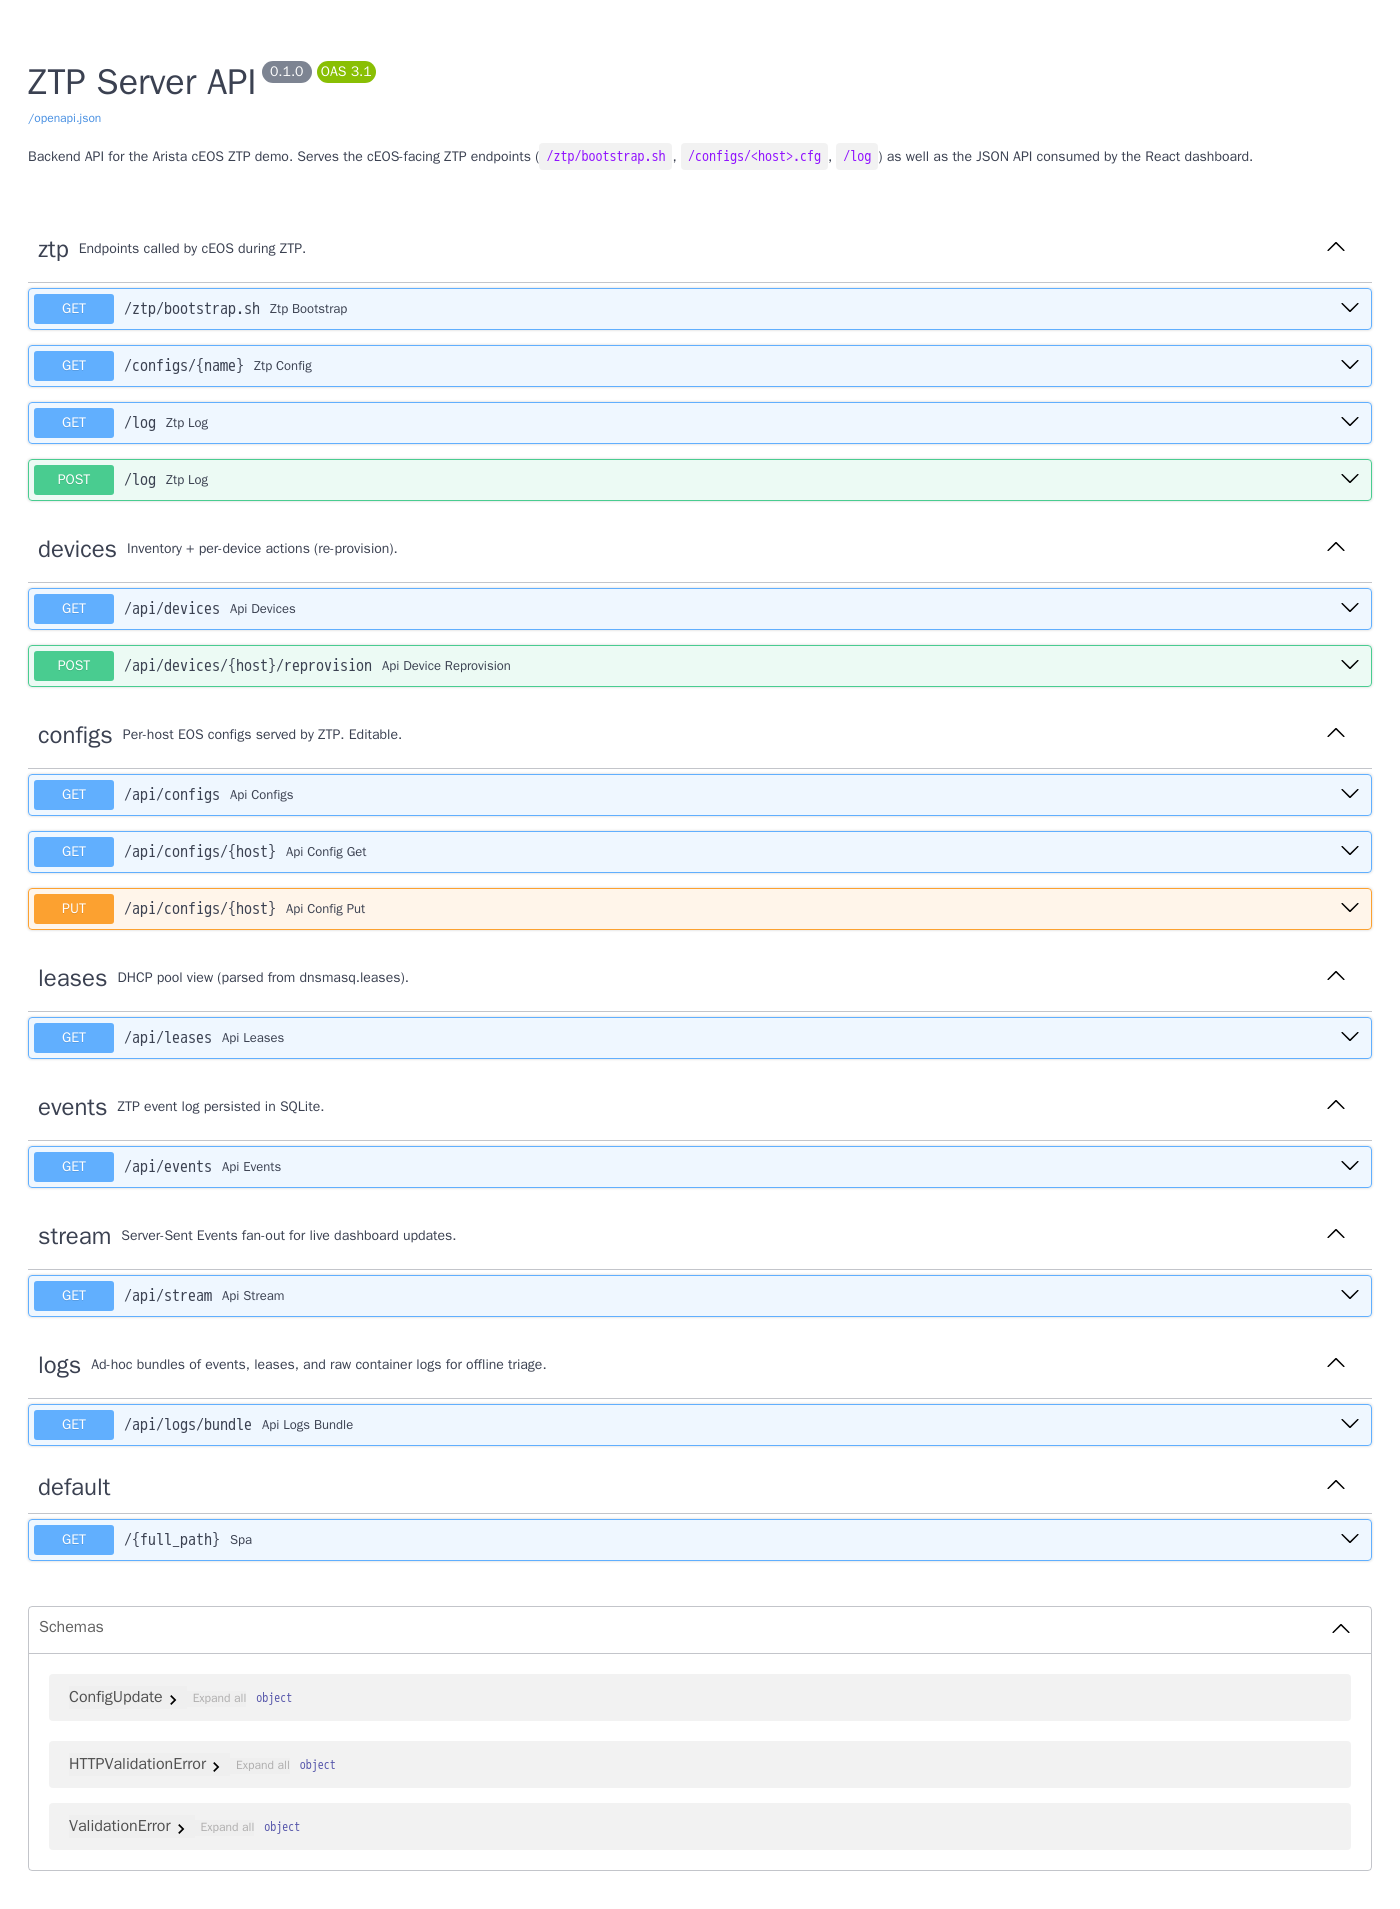
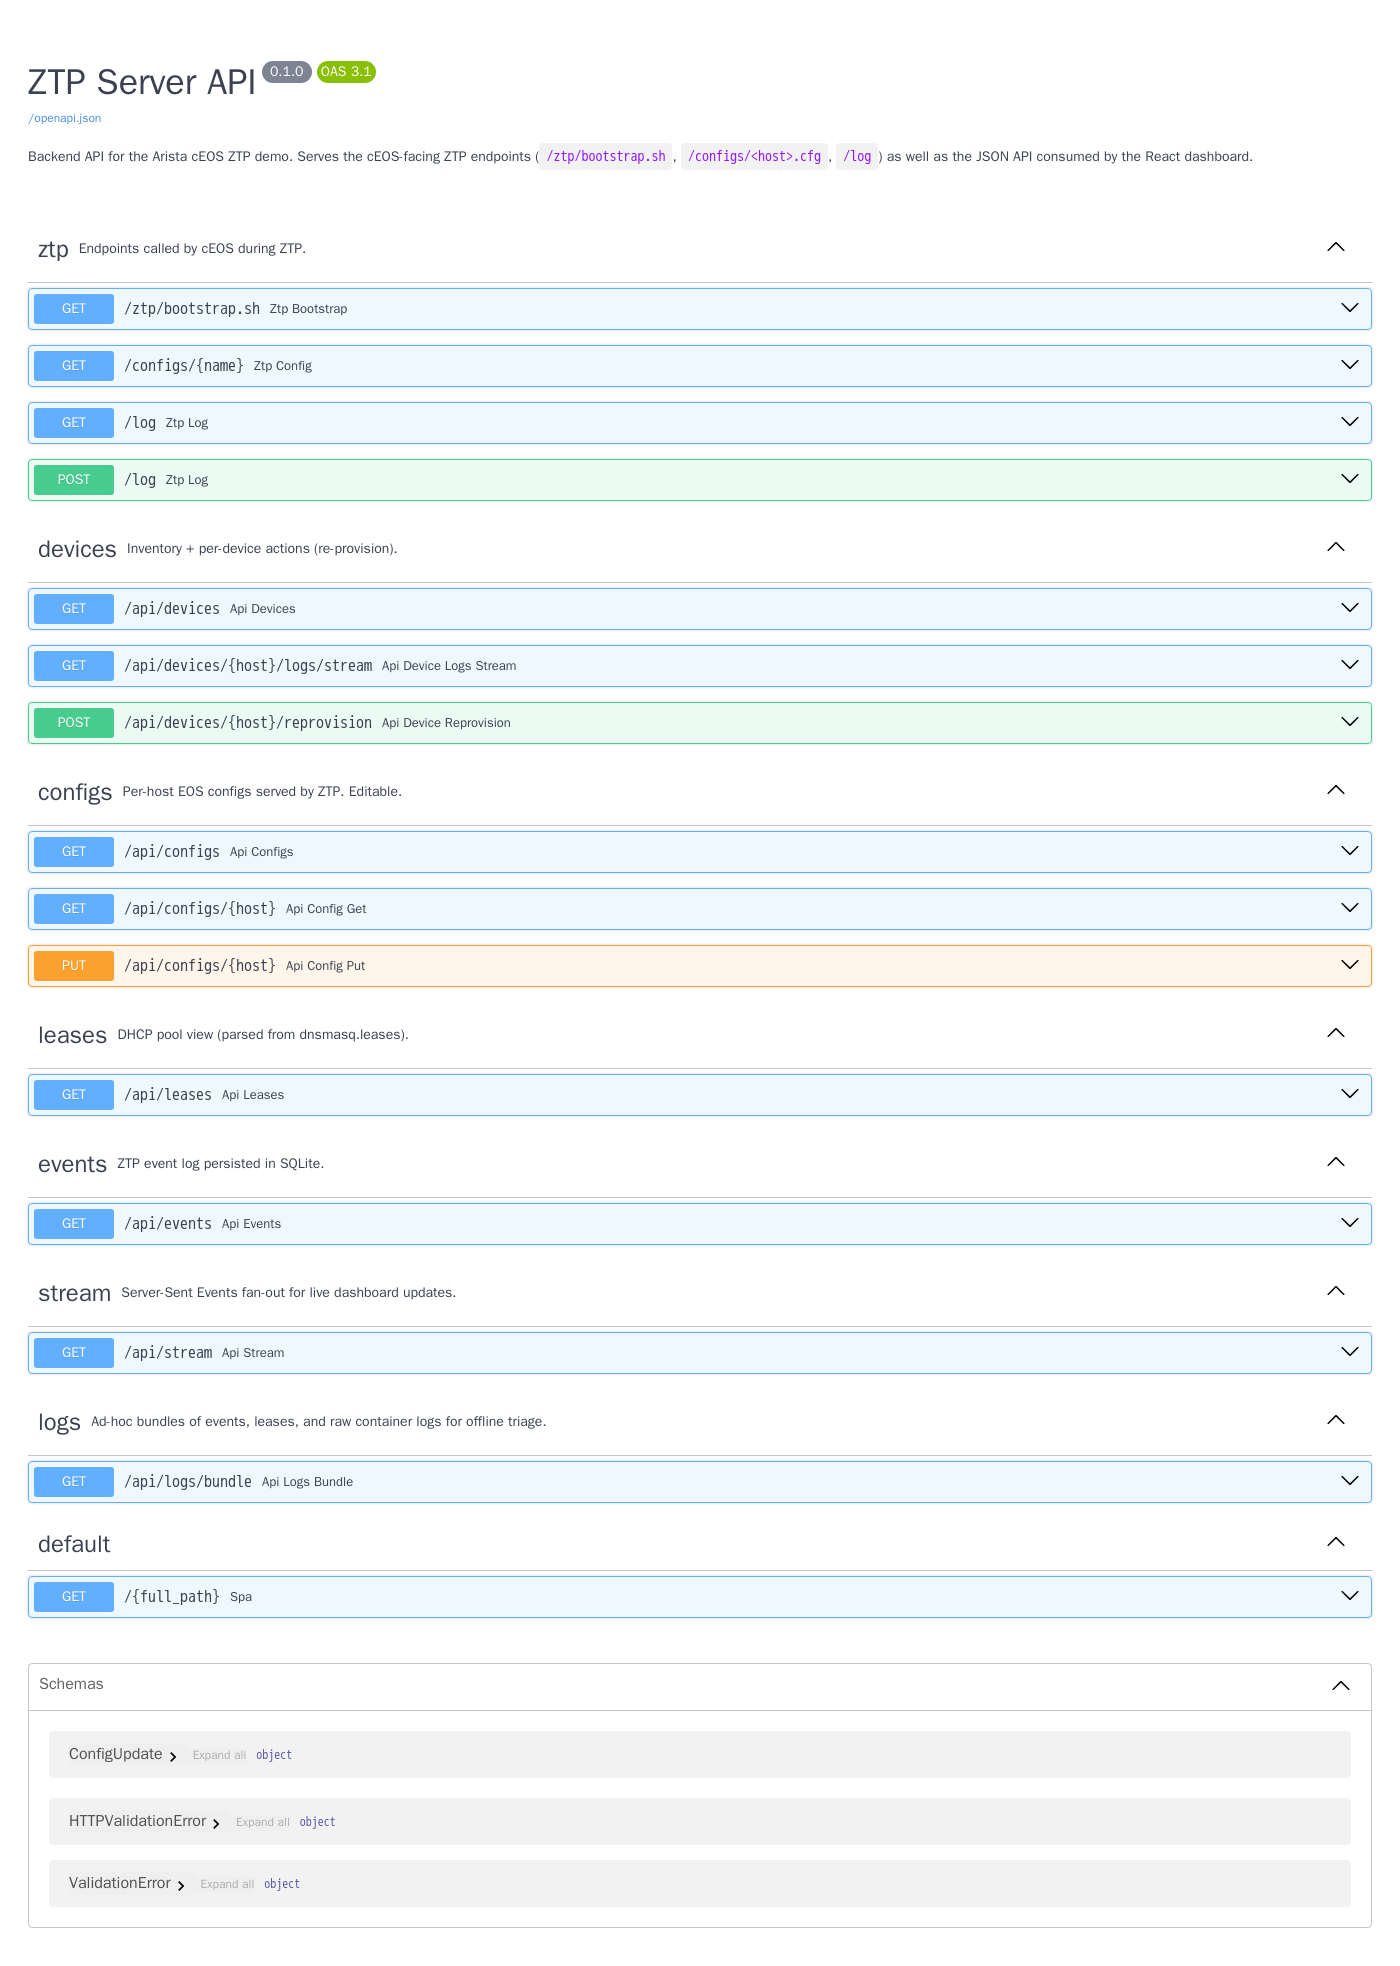
Add Live ZTP Viewer: stream docker logs per cEOS to a bottom drawer
New SSE endpoint GET /api/devices/{host}/logs/stream tails
`docker logs -f` for the cEOS container backing the named node. A
background thread reads the docker SDK log generator into an
asyncio.Queue, buffering until newline (docker yields tiny chunks for
terminal output) and stripping ANSI color escapes server-side so the
browser renders clean text.

The Devices grid gets a per-row "Live ZTP Viewer" button. Clicking it
opens a fixed-position drawer at the bottom of the page that connects
to the stream and tails the container's stdout/stderr — systemd boot
messages, ZTP DHCP exchanges, the bootstrap script running, the
post-ZTP reboot, etc. The drawer has pause-autoscroll, clear, and
close controls.

- ztp-server/app/main.py: SSE endpoint + ANSI stripper
- ztp-server/app/ui/src/components/LogDrawer.tsx: terminal drawer
- ztp-server/app/ui/src/pages/Devices.tsx: per-row button + spacer
- README.md + new docs/screenshots/live-ztp-viewer.png

diff --git a/ztp-server/app/ui/src/components/LogDrawer.tsx b/ztp-server/app/ui/src/components/LogDrawer.tsx
@@ -1,0 +1,81 @@
+import { useEffect, useRef, useState } from "react";
+
+const MAX_LINES = 5000;
+
+export default function LogDrawer({ host, onClose }: { host: string; onClose: () => void }) {
+  const [lines, setLines] = useState<string[]>([]);
+  const [paused, setPaused] = useState(false);
+  const [connected, setConnected] = useState(false);
+  const bodyRef = useRef<HTMLDivElement>(null);
+
+  useEffect(() => {
+    setLines([]);
+    setConnected(false);
+    const es = new EventSource(`/api/devices/${host}/logs/stream`);
+    es.onopen = () => setConnected(true);
+    es.onerror = () => setConnected(false);
+    es.onmessage = (ev) => {
+      setLines((l) => {
+        const next = l.length >= MAX_LINES ? l.slice(-MAX_LINES + 1) : l.slice();
+        next.push(ev.data);
+        return next;
+      });
+    };
+    return () => { es.close(); };
+  }, [host]);
+
+  useEffect(() => {
+    if (!paused && bodyRef.current) {
+      bodyRef.current.scrollTop = bodyRef.current.scrollHeight;
+    }
+  }, [lines, paused]);
+
+  return (
+    <div className="fixed inset-x-0 bottom-0 h-[45vh] bg-slate-950 border-t border-slate-800 z-50 flex flex-col shadow-2xl">
+      <div className="flex items-center justify-between px-3 py-2 border-b border-slate-800 bg-slate-900">
+        <div className="flex items-center gap-3">
+          <span className="text-sm font-semibold mono">Live ZTP Viewer · {host}</span>
+          <span className={`text-[10px] mono ${connected ? "text-emerald-400" : "text-slate-500"}`}>
+            {connected ? "● streaming" : "○ disconnected"}
+          </span>
+          <span className="text-xs text-slate-500">{lines.length} lines</span>
+          {paused && <span className="text-xs text-amber-400">autoscroll paused</span>}
+        </div>
+        <div className="flex items-center gap-2">
+          <button
+            onClick={() => setPaused((p) => !p)}
+            className="px-2 py-1 rounded text-xs bg-slate-800 hover:bg-slate-700"
+            title="Toggle autoscroll"
+          >
+            {paused ? "▶ resume" : "❚❚ pause"}
+          </button>
+          <button
+            onClick={() => setLines([])}
+            className="px-2 py-1 rounded text-xs bg-slate-800 hover:bg-slate-700"
+          >
+            clear
+          </button>
+          <button
+            onClick={onClose}
+            className="px-2 py-1 rounded text-xs bg-rose-600 hover:bg-rose-500"
+          >
+            ✕ close
+          </button>
+        </div>
+      </div>
+      <div
+        ref={bodyRef}
+        onWheel={(e) => {
+          if (e.deltaY < 0) setPaused(true);
+        }}
+        className="flex-1 overflow-y-auto bg-black text-emerald-200 mono text-[11px] leading-snug p-2 whitespace-pre-wrap"
+      >
+        {lines.length === 0 ? (
+          <span className="text-slate-500">waiting for output…</span>
+        ) : (
+          lines.join("\n")
+        )}
+      </div>
+    </div>
+  );
+}

diff --git a/ztp-server/app/ui/src/pages/Devices.tsx b/ztp-server/app/ui/src/pages/Devices.tsx
@@ -3,10 +3,12 @@ import { Link } from "react-router-dom";
 import { api, Device } from "../api";
 import { useSSE } from "../hooks/useSSE";
 import StatusPill from "../components/StatusPill";
+import LogDrawer from "../components/LogDrawer";
 
 export default function Devices() {
   const [devices, setDevices] = useState<Device[]>([]);
   const [error, setError] = useState<string | null>(null);
+  const [viewerHost, setViewerHost] = useState<string | null>(null);
 
   const refresh = () => api.devices().then(setDevices).catch((e) => setError(String(e)));
 
@@ -33,6 +35,7 @@ export default function Devices() {
               <th className="px-3 py-2">Mgmt IP (Docker)</th>
               <th className="px-3 py-2">Last seen</th>
               <th className="px-3 py-2">Events</th>
+              <th className="px-3 py-2 text-right">Actions</th>
             </tr>
           </thead>
           <tbody>
@@ -47,14 +50,32 @@ export default function Devices() {
                 <td className="px-3 py-2 mono">{d.ip ?? "-"}</td>
                 <td className="px-3 py-2 mono text-xs text-slate-400">{d.last_seen ?? "-"}</td>
                 <td className="px-3 py-2">{d.event_count ?? 0}</td>
+                <td className="px-3 py-2 text-right">
+                  <button
+                    onClick={() => setViewerHost(d.name)}
+                    disabled={!d.container}
+                    className="px-2 py-1 rounded text-xs bg-emerald-600 hover:bg-emerald-500 disabled:opacity-40"
+                    title="Stream live docker logs for this device"
+                  >
+                    Live ZTP Viewer
+                  </button>
+                </td>
               </tr>
             ))}
             {devices.length === 0 && (
-              <tr><td colSpan={7} className="px-3 py-6 text-center text-slate-500">No devices yet.</td></tr>
+              <tr><td colSpan={8} className="px-3 py-6 text-center text-slate-500">No devices yet.</td></tr>
             )}
           </tbody>
         </table>
       </div>
+
+      {viewerHost && (
+        <>
+          {/* spacer so the table doesn't sit under the drawer */}
+          <div className="h-[45vh]" aria-hidden />
+          <LogDrawer host={viewerHost} onClose={() => setViewerHost(null)} />
+        </>
+      )}
     </section>
   );
 }

diff --git a/docs/screenshots/capture.js b/docs/screenshots/capture.js
@@ -5,6 +5,8 @@ const OUT  = '/out';
 
 const SHOTS = [
   { url: '/',                  file: 'devices.png',       wait: 1500 },
+  // capture the drawer as well; handled specially below
+  { url: '/',                  file: 'live-ztp-viewer.png', wait: 4000, openViewer: 'spine1' },
   { url: '/devices/spine1',    file: 'device-detail.png', wait: 2000 },
   { url: '/configs',           file: 'configs.png',       wait: 1500 },
   { url: '/edit/spine1',       file: 'config-editor.png', wait: 2000 },
@@ -23,10 +25,29 @@ const SHOTS = [
 
   for (const s of SHOTS) {
     const url = BASE + s.url;
-    console.log(`-> ${url}`);
+    console.log(`-> ${url}${s.openViewer ? ` (open viewer for ${s.openViewer})` : ''}`);
     await page.goto(url, { waitUntil: 'domcontentloaded', timeout: 20000 });
+    await new Promise(r => setTimeout(r, 700));
+    if (s.openViewer) {
+      // click the Live ZTP Viewer button on the row whose first cell text matches
+      await page.evaluate((host) => {
+        const rows = Array.from(document.querySelectorAll('tbody tr'));
+        for (const row of rows) {
+          const first = row.querySelector('td');
+          if (first && first.innerText.trim() === host) {
+            const btn = row.querySelector('button');
+            if (btn) (btn).click();
+            return true;
+          }
+        }
+        return false;
+      }, s.openViewer);
+    }
     await new Promise(r => setTimeout(r, s.wait));
-    await page.screenshot({ path: `${OUT}/${s.file}`, fullPage: true });
+    await page.screenshot({
+      path: `${OUT}/${s.file}`,
+      fullPage: !s.openViewer,
+    });
   }
   await browser.close();
 })().catch(e => { console.error(e); process.exit(1); });

diff --git a/ztp-server/app/main.py b/ztp-server/app/main.py
@@ -4,6 +4,7 @@ import json
 import os
 import re
 import tarfile
+import threading
 from datetime import datetime, timezone
 from pathlib import Path
 from contextlib import asynccontextmanager
@@ -26,6 +27,9 @@ import leases
 CONTENT_ROOT = Path(os.environ.get("ZTP_CONTENT_ROOT", "/ztp-content"))
 STATIC_ROOT = Path(os.environ.get("STATIC_ROOT", "/app/static"))
 HOST_RE = re.compile(r"^[a-zA-Z0-9_-]+$")
+# Strip ANSI escape sequences (CSI ... final byte) from terminal output so the
+# log stream renders cleanly as plain text in the browser.
+ANSI_RE = re.compile(rb"\x1B\[[0-?]*[ -/]*[@-~]")
 
 # Fan-out for SSE: every connected client gets its own asyncio.Queue.
 _subscribers: set[asyncio.Queue] = set()
@@ -156,6 +160,78 @@ async def api_config_put(host: str, body: ConfigUpdate):
     p.write_text(body.content)
     await _broadcast({"type": "config_updated", "host": host})
     return {"ok": True, "size": p.stat().st_size}
+
+
+@app.get("/api/devices/{host}/logs/stream", tags=["devices"])
+async def api_device_logs_stream(host: str, request: Request, tail: int = 200):
+    """SSE: live `docker logs -f` for the cEOS container backing this node.
+    Each event is one line; the connection stays open until the client
+    disconnects or the container goes away.
+    """
+    if not HOST_RE.match(host):
+        raise HTTPException(400, "invalid host")
+    cli = docker_ctl._client()
+    container_name = f"clab-{docker_ctl.LAB_NAME}-{host}"
+    try:
+        c = cli.containers.get(container_name)
+    except Exception:
+        raise HTTPException(404, "no such device")
+
+    loop = asyncio.get_event_loop()
+    queue: asyncio.Queue = asyncio.Queue(maxsize=4096)
+    log_stream = c.logs(
+        stream=True, follow=True, tail=tail, stdout=True, stderr=True
+    )
+
+    def reader():
+        # docker streams data in tiny chunks (often single bytes for terminal
+        # output); buffer until a complete line, strip ANSI, then enqueue.
+        buf = b""
+        try:
+            for chunk in log_stream:
+                if not chunk:
+                    continue
+                buf += chunk
+                while b"\n" in buf:
+                    line, _, buf = buf.partition(b"\n")
+                    text = ANSI_RE.sub(b"", line).decode("utf-8", errors="replace").rstrip("\r")
+                    if not queue.full():
+                        loop.call_soon_threadsafe(queue.put_nowait, text)
+            if buf:
+                text = ANSI_RE.sub(b"", buf).decode("utf-8", errors="replace").rstrip("\r")
+                if text and not queue.full():
+                    loop.call_soon_threadsafe(queue.put_nowait, text)
+        except Exception:
+            pass
+        finally:
+            try:
+                loop.call_soon_threadsafe(queue.put_nowait, None)
+            except Exception:
+                pass
+
+    threading.Thread(target=reader, daemon=True).start()
+
+    async def gen():
+        try:
+            yield "retry: 2000\n\n"
+            while True:
+                if await request.is_disconnected():
+                    return
+                try:
+                    item = await asyncio.wait_for(queue.get(), timeout=15.0)
+                except asyncio.TimeoutError:
+                    yield ": keepalive\n\n"
+                    continue
+                if item is None:
+                    return
+                yield f"data: {item}\n\n"
+        finally:
+            try:
+                log_stream.close()
+            except Exception:
+                pass
+
+    return StreamingResponse(gen(), media_type="text/event-stream")
 
 
 @app.post("/api/devices/{host}/reprovision", tags=["devices"])

diff --git a/README.md b/README.md
@@ -71,6 +71,14 @@ top right reflects the SSE connection.
 
 ![Devices](docs/screenshots/devices.png)
 
+The **Live ZTP Viewer** button per row opens a drawer at the bottom of
+the page that streams `docker logs -f` for that cEOS container — useful
+for watching the systemd boot, ZTP DHCP exchanges, the bootstrap script
+running, and the post-ZTP reboot. Backed by the SSE endpoint
+`GET /api/devices/{host}/logs/stream`.
+
+![Live ZTP Viewer](docs/screenshots/live-ztp-viewer.png)
+
 ### Device detail
 
 Per-device summary, full event timeline, the served EOS config, and two
